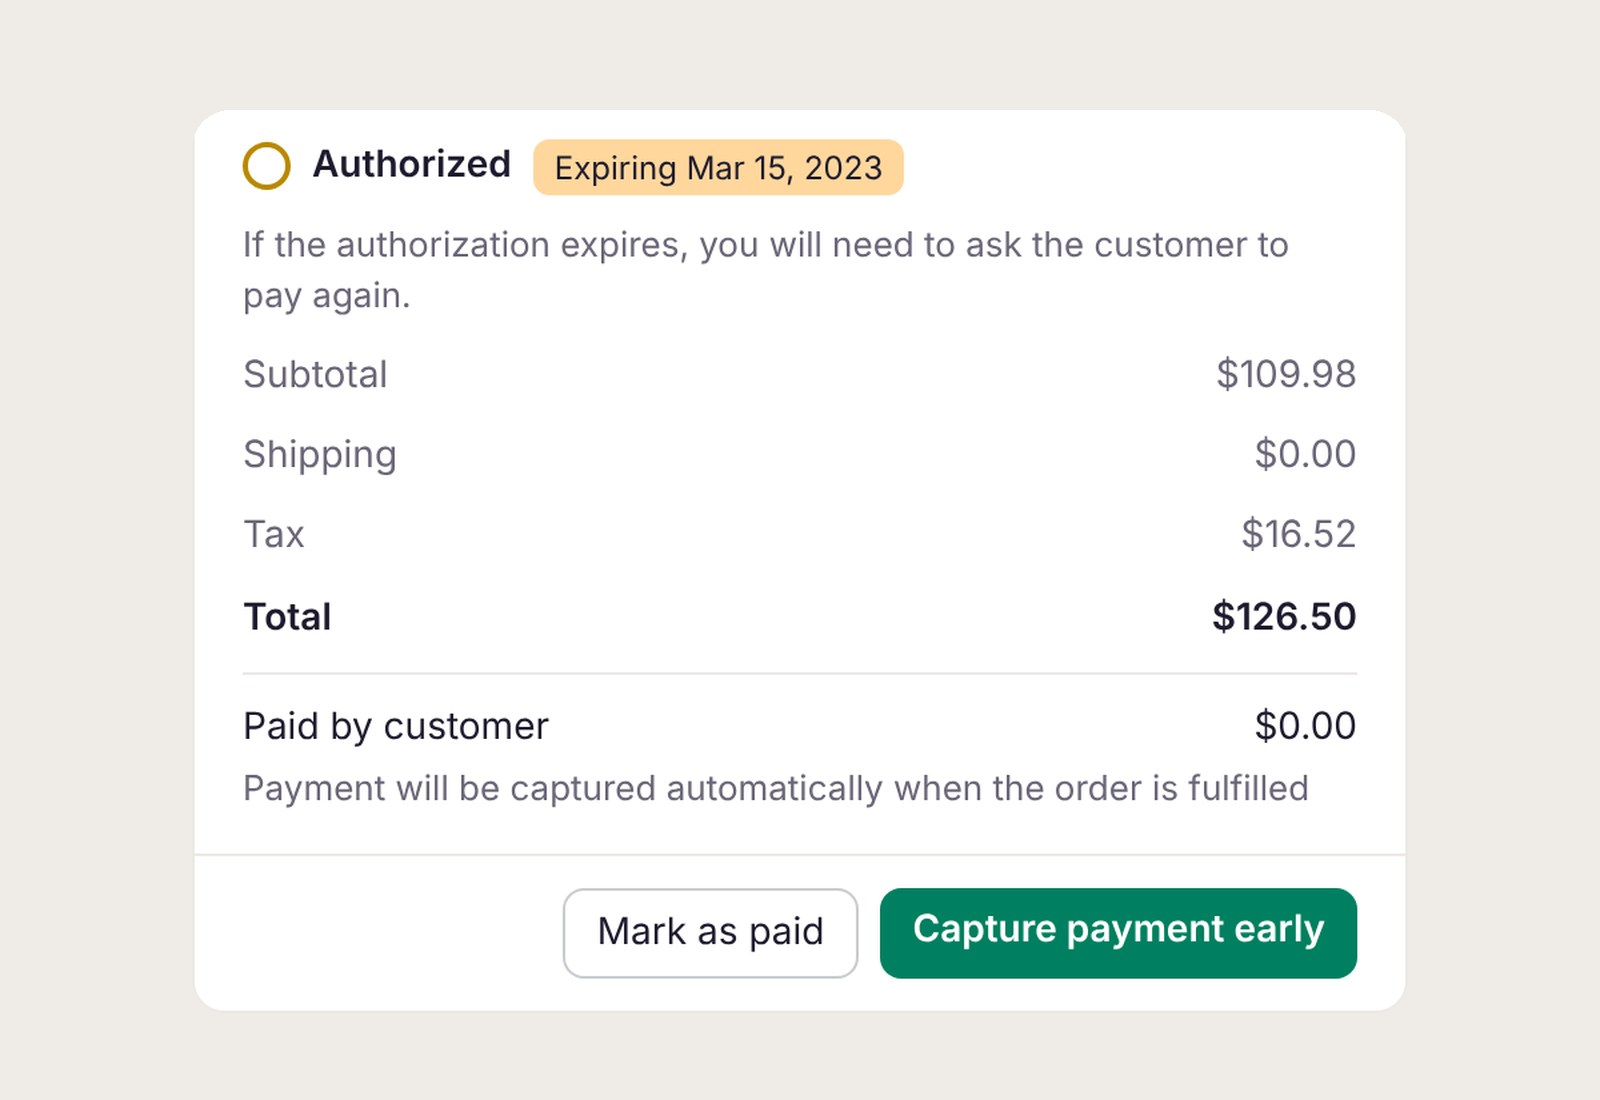
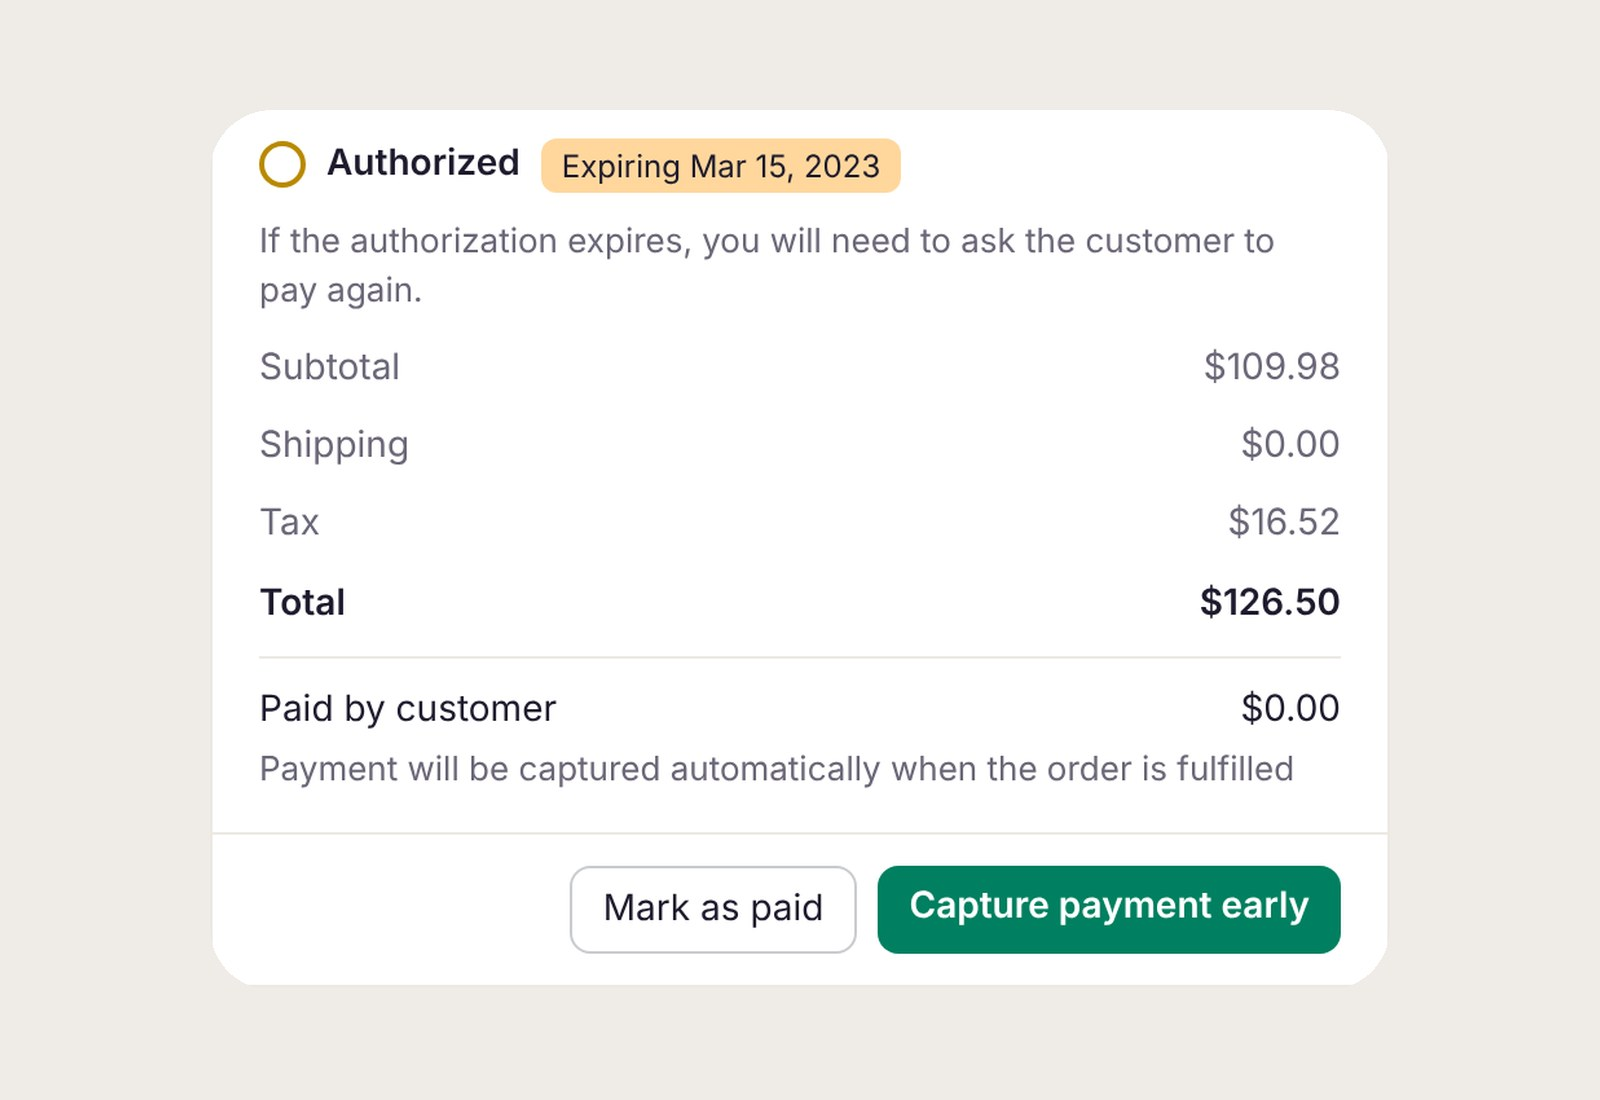
Even top and bottom padding in homepage thumbnails
Claude-Session: https://claude.ai/code/session_01DpUyH9xiwZ41mTw5vZV9xd

diff --git a/index.html b/index.html
@@ -35,7 +35,7 @@
 <div class="work">
 
 <a class="feature" href="work/trip-com.html">
-<img src="images/home/trip-com.jpg?v=2" alt="Trip.com fare selection redesign with Basic, Standard and Flex fares">
+<img src="images/home/trip-com.jpg?v=3" alt="Trip.com fare selection redesign with Basic, Standard and Flex fares">
 <div class="text">
 <span class="meta">Trip.com · 2025 · Design Award</span>
 <h2>From complexity to clarity</h2>
@@ -47,7 +47,7 @@
 <div class="cards">
 
 <a class="card" href="work/app-flow.html">
-<img src="images/home/app-flow.jpg?v=2" alt="Trip.com app price detail redesign">
+<img src="images/home/app-flow.jpg?v=3" alt="Trip.com app price detail redesign">
 <div class="text">
 <span class="meta">Trip.com app · 2026</span>
 <h2>From agency concept to shippable app</h2>
@@ -56,7 +56,7 @@
 </a>
 
 <a class="card" href="work/shopify-payments.html">
-<img src="images/home/shopify-payments.jpg?v=2" alt="Shopify order payment card with Capture payment early button">
+<img src="images/home/shopify-payments.jpg?v=3" alt="Shopify order payment card with Capture payment early button">
 <div class="text">
 <span class="meta">Shopify · 2022 to 2023</span>
 <h2>Getting merchants paid at the right moment</h2>
@@ -65,7 +65,7 @@
 </a>
 
 <a class="card" href="work/shopify-markets.html">
-<img src="images/home/shopify-markets.jpg?v=2" alt="Shopify Google app country and region picker">
+<img src="images/home/shopify-markets.jpg?v=3" alt="Shopify Google app country and region picker">
 <div class="text">
 <span class="meta">Shopify · Google app · 2022</span>
 <h2>One store, many countries on Google</h2>
@@ -74,7 +74,7 @@
 </a>
 
 <a class="card" href="work/built-with-ai.html">
-<img src="images/home/built-with-ai.jpg?v=2" alt="Stay Counter and Shuo on mobile">
+<img src="images/home/built-with-ai.jpg?v=3" alt="Stay Counter and Shuo on mobile">
 <div class="text">
 <span class="meta">Side projects</span>
 <h2>Small tools, designed and built with AI</h2>
